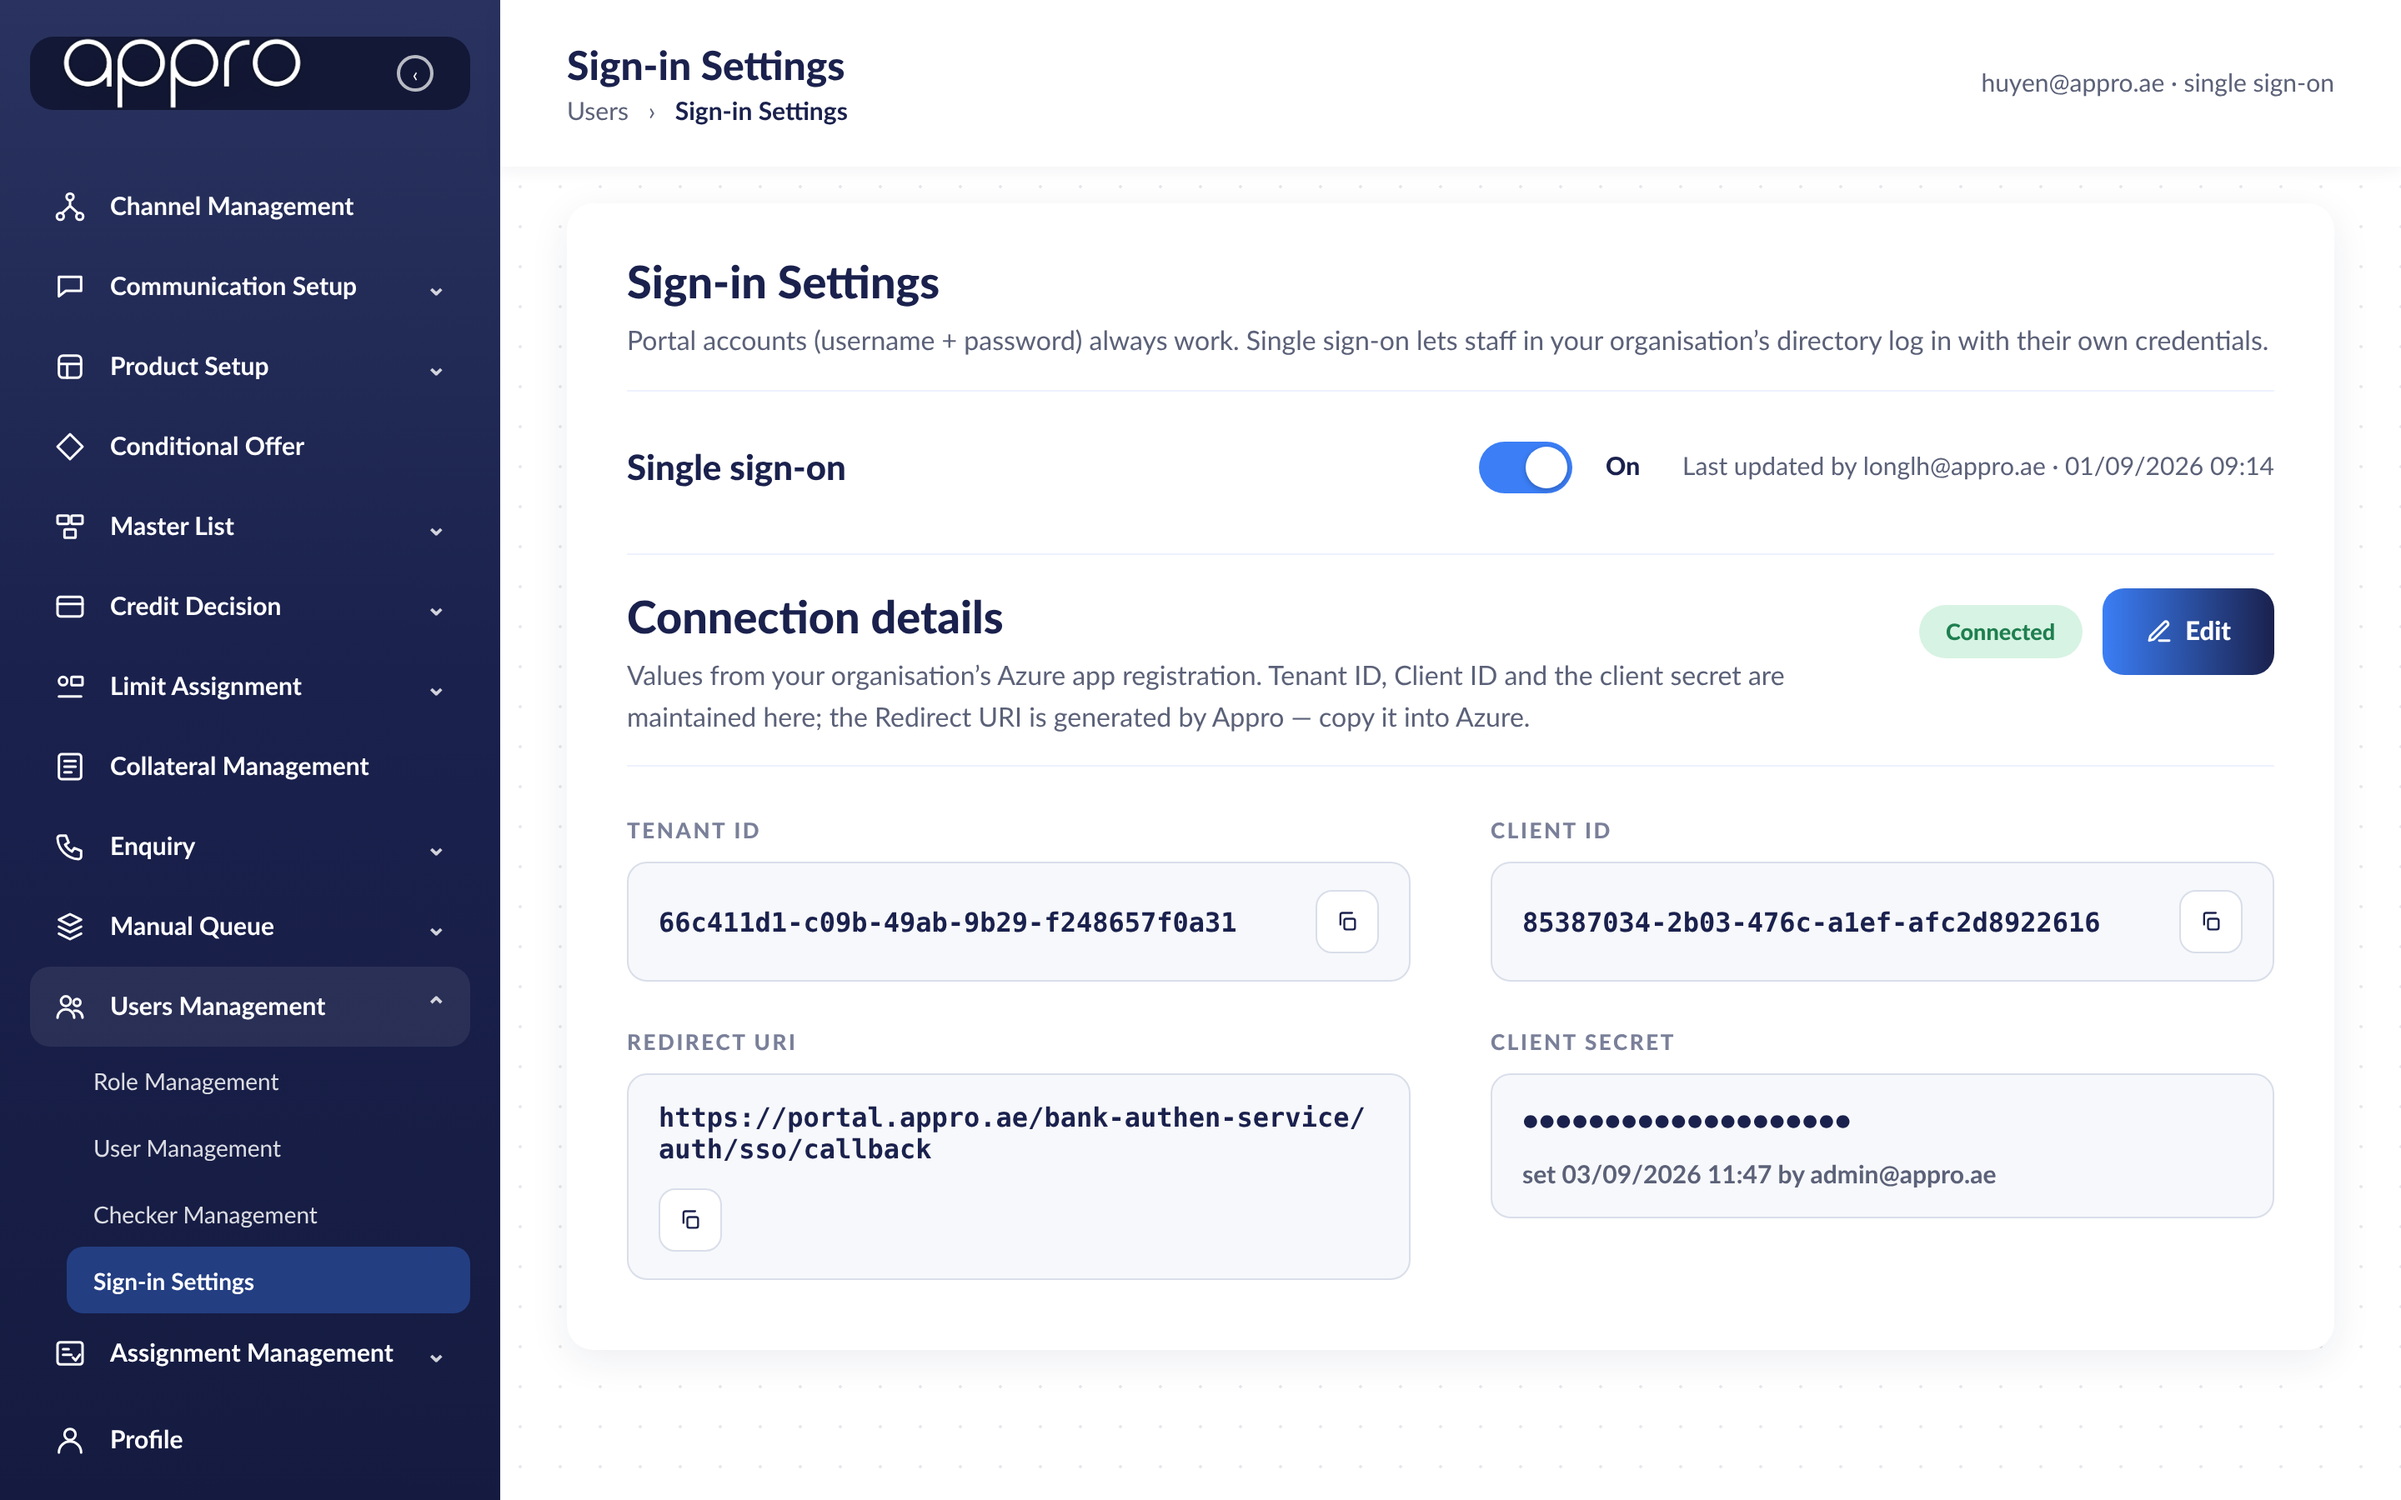
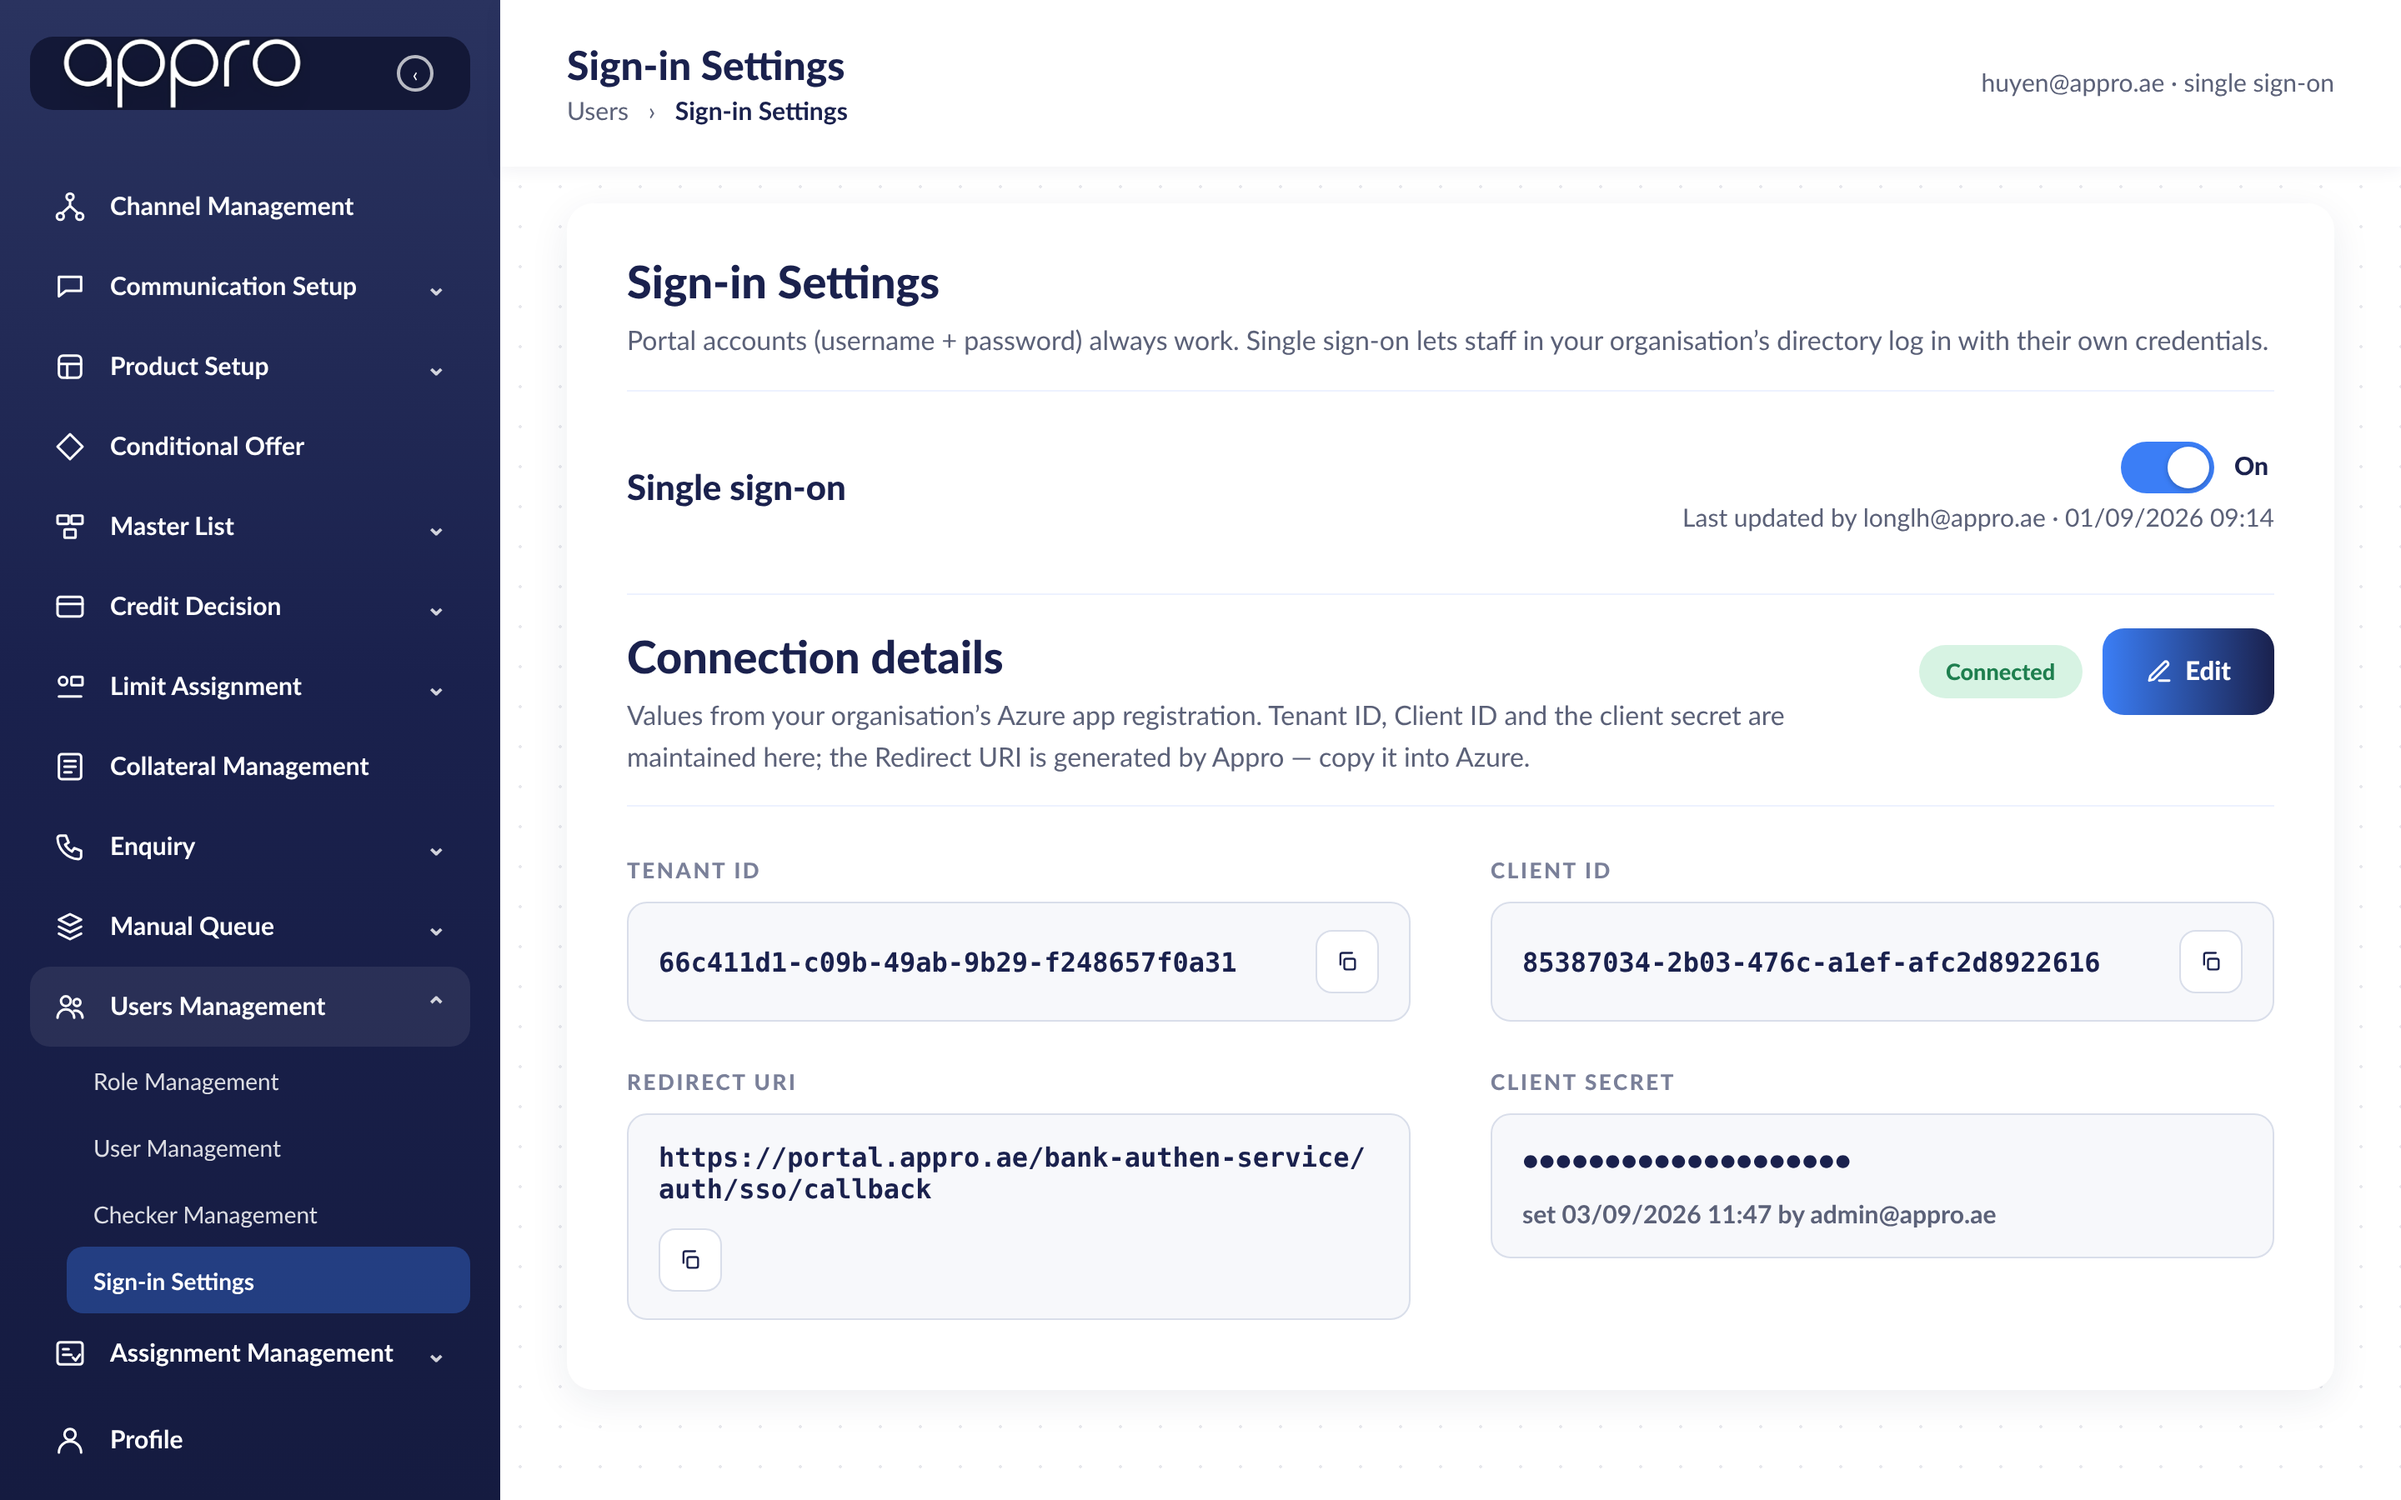
SSO Sign-in Settings: anchor the toggle right, audit trail beneath it
The Pending Checker approval badge sat beside the toggle, so the toggle
shifted position between the normal and pending states. The toggle and its
On/Off label now sit in a fixed-width group anchored to the right edge, with
the audit line (or the pending badge) rendered directly underneath.

Claude-Session: https://claude.ai/code/session_01WLahjovvzGmaLqPdFzgAEY

diff --git a/sso-prototype/index.html b/sso-prototype/index.html
@@ -224,6 +224,13 @@ h1{margin:0;text-align:center;font-size:clamp(22px,4vw,30px);font-weight:800;tex
 /* v16c */
 .form .in.ro code,.form .in.ro{word-break:break-all;line-height:1.45}
 .form .in.ro{min-height:56px;display:flex;align-items:center}
+
+/* v18: toggle anchored right; audit trail / pending badge sits directly under it */
+.row .r{flex-wrap:nowrap;justify-content:flex-end}
+.row .r .swcol{display:inline-flex;flex-direction:column;align-items:flex-end;gap:6px}
+.row .r .meta{text-align:right;white-space:nowrap}
+.row .r .swgrp{display:inline-flex;align-items:center;gap:12px;flex:0 0 auto;width:92px;justify-content:flex-start}
+.row .r .swlab{font-weight:800}
 </style></head><body style="margin:0">
 
 <!-- ===================== LOGIN ===================== -->
@@ -414,9 +421,11 @@ function renderSettings(c){
     <div class="row" style="border-bottom:0"><div class="t"><h4>Single sign-on</h4></div><div class="r" id="ssoRow"></div></div>
     <div id="connPanel" class="sect"></div>
   </section>`;
-  $('#ssoRow').innerHTML=`<button type="button" class="sw ${on?'on':''} ${pend?'dis':''}" id="ssoSwitch" role="switch" aria-checked="${on}" aria-label="Single sign-on" ${pend?'disabled':''}><span class="knob"></span></button><span class="small" style="font-weight:800;min-width:26px">${on?'On':'Off'}</span>`+
-    (pend?`<span class="small muted">${pill('p-yel','Pending Checker approval')}</span>`
-         :`<span class="small muted">Last updated by ${S.updatedBy||'longlh@appro.ae'} · ${S.since||'01/09/2026 09:14'}</span>`);
+  $('#ssoRow').innerHTML=
+    `<span class="swcol"><span class="swgrp"><button type="button" class="sw ${on?'on':''} ${pend?'dis':''}" id="ssoSwitch" role="switch" aria-checked="${on}" aria-label="Single sign-on" ${pend?'disabled':''}><span class="knob"></span></button><span class="small swlab">${on?'On':'Off'}</span></span>`+
+    (pend?`<span class="small muted meta">${pill('p-yel','Pending Checker approval')}</span>`
+         :`<span class="small muted meta">Last updated by ${S.updatedBy||'longlh@appro.ae'} · ${S.since||'01/09/2026 09:14'}</span>`)+
+    `</span>`;
   renderConn();
   const t=$('#ssoSwitch');if(t&&!pend)t.onclick=()=>openModal(on?'off':'on');
   document.querySelectorAll('[data-user]').forEach(x=>x.onclick=()=>go('user',x.dataset.user));
